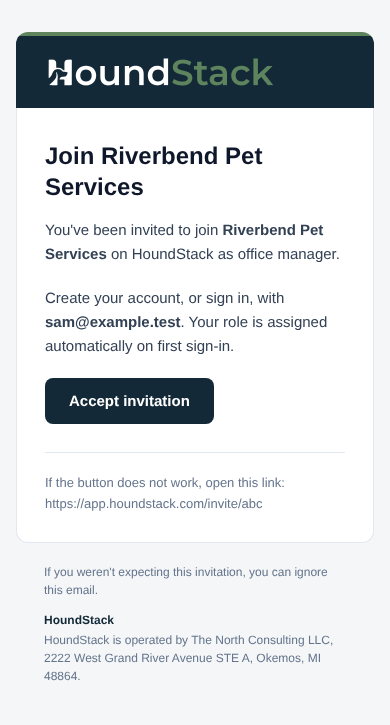
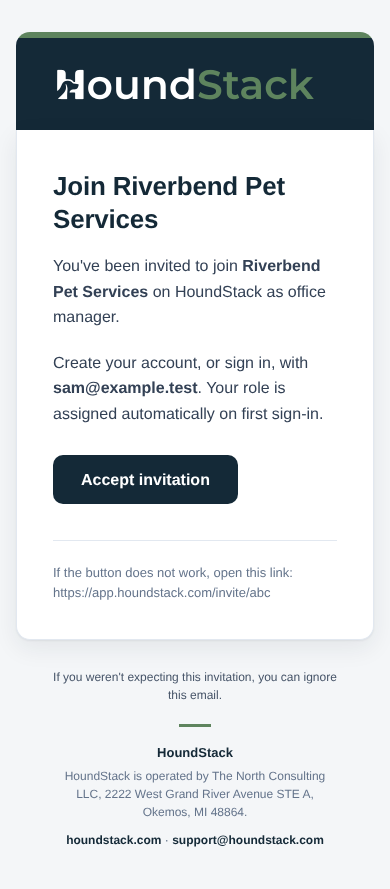
email: finish the HoundStack system and platform chrome (#577)
Raises system and platform mail from a plain band to a finished layout,
inside the Beacon kit (navy #142937, sage #5e845e, reversed wordmark,
operator line):

- band: 30px of navy around the wordmark, now 32px tall (2x PNG), under
  a 6px sage rule
- card: 36px inset, 40px top, soft shadow, 14px radius
- type: 26px navy heading, 16px body, 16px bold navy button
- footer: centred under the card with a short sage rule, the name, the
  operator line, and houndstack.com and support@houndstack.com

The trial notice and announcement cards take the same spacing, shadow and
navy button. Their copy is unchanged. Every after screenshot is
re-rendered at 600 and 390.

diff --git a/src/lib/email-templates/_brand.tsx b/src/lib/email-templates/_brand.tsx
@@ -23,6 +23,9 @@ import { appUrl } from "@/lib/app-origin";
 
 export const HOUNDSTACK_URL = "https://houndstack.com";
 
+/** The support address the trial notice already gives. */
+export const SUPPORT_EMAIL = "support@houndstack.com";
+
 /** The reversed wordmark (white "Hound", sage "Stack") from
  *  src/assets/houndstack-wordmark.svg, as a 2x PNG served from public/brand.
  *  A PNG because Gmail and Outlook do not render an SVG <img>. Never a CSS
@@ -71,18 +74,21 @@ export function safeLogoUrl(value: string | null | undefined): string | null {
 const small = { fontSize: "12px", color: BRAND.muted, lineHeight: "1.5", margin: 0 };
 const table = { width: "100%", borderCollapse: "collapse" as const };
 
-/** The wordmark's drawn size. Its artwork is 3626.5 x 434.8, so 28px tall
- *  is 234px wide; the PNG is drawn at twice that. */
-const WORDMARK_HEIGHT = 28;
-const WORDMARK_WIDTH = 234;
+/** The wordmark's drawn size. Its artwork is 3626.5 x 434.8, so 32px tall
+ *  is 267px wide; the PNG is drawn at twice that. */
+const WORDMARK_HEIGHT = 32;
+const WORDMARK_WIDTH = 267;
 
 /** The grey canvas, white card and inset that system mail sits in. Exported
  *  for the platform mail that builds its HTML by hand, so it can line up. */
 export const SYSTEM = {
   canvas: "#f4f6f8",
   cardRule: "#e2e8f0",
-  radius: "12px",
-  inset: "28px",
+  radius: "14px",
+  inset: "36px",
+  /** A soft lift for the card where a client draws shadows; the 1px rule
+   *  stands in where it does not. */
+  shadow: "0 1px 2px rgba(20,41,55,0.06), 0 8px 24px rgba(20,41,55,0.08)",
 };
 
 /**
@@ -106,12 +112,12 @@ export function SystemHeader() {
     >
       <tbody>
         <tr>
-          <td style={{ backgroundColor: BRAND.sage, height: "4px", fontSize: 0, lineHeight: 0 }}>
+          <td style={{ backgroundColor: BRAND.sage, height: "6px", fontSize: 0, lineHeight: 0 }}>
             &nbsp;
           </td>
         </tr>
         <tr>
-          <td style={{ backgroundColor: BRAND.navy, padding: `22px ${SYSTEM.inset}` }}>
+          <td style={{ backgroundColor: BRAND.navy, padding: `30px ${SYSTEM.inset}` }}>
             <a href={HOUNDSTACK_URL} style={{ textDecoration: "none" }}>
               <img
                 src={appUrl(WORDMARK_REVERSED_PATH)}
@@ -153,29 +159,25 @@ export function SystemFooter({
   poweredBy?: boolean;
   onCanvas?: boolean;
 }) {
-  const pad = onCanvas ? `0 ${SYSTEM.inset}` : "0";
+  if (onCanvas) return <CanvasFooter note={note} />;
   return (
     <table
       role="presentation"
       cellPadding={0}
       cellSpacing={0}
-      style={{
-        ...table,
-        margin: onCanvas ? "20px 0 0" : "32px 0 0",
-        ...(onCanvas ? {} : { borderTop: `1px solid ${BRAND.rule}` }),
-      }}
+      style={{ ...table, margin: "32px 0 0", borderTop: `1px solid ${BRAND.rule}` }}
     >
       <tbody>
         {note ? (
           <tr>
-            <td style={{ ...small, padding: onCanvas ? pad : "16px 0 0" }}>{note}</td>
+            <td style={{ ...small, padding: "16px 0 0" }}>{note}</td>
           </tr>
         ) : null}
         <tr>
           <td
             style={{
               ...small,
-              padding: onCanvas ? `12px ${SYSTEM.inset} 0` : "12px 0 0",
+              padding: "12px 0 0",
               fontWeight: "bold" as const,
               color: BRAND.navy,
             }}
@@ -193,8 +195,75 @@ export function SystemFooter({
           </td>
         </tr>
         <tr>
-          <td style={{ ...small, padding: onCanvas ? `2px ${SYSTEM.inset} 0` : "2px 0 0" }}>
-            {OPERATOR_LINE}
+          <td style={{ ...small, padding: "2px 0 0" }}>{OPERATOR_LINE}</td>
+        </tr>
+      </tbody>
+    </table>
+  );
+}
+
+const footerLink = { color: BRAND.navy, textDecoration: "none", fontWeight: "bold" as const };
+
+/** The footer under a system email's card: the email's own note, a short
+ *  sage rule, the HoundStack name, the operator line and where to reach
+ *  HoundStack, centred on the canvas. */
+function CanvasFooter({ note }: { note?: React.ReactNode }) {
+  const centred = { ...small, textAlign: "center" as const };
+  return (
+    <table
+      role="presentation"
+      cellPadding={0}
+      cellSpacing={0}
+      style={{ ...table, margin: "28px 0 0" }}
+    >
+      <tbody>
+        {note ? (
+          <tr>
+            <td style={{ ...centred, padding: `0 ${SYSTEM.inset} 20px`, color: "#475569" }}>
+              {note}
+            </td>
+          </tr>
+        ) : null}
+        <tr>
+          <td align="center" style={{ padding: "0 0 16px" }}>
+            <table role="presentation" cellPadding={0} cellSpacing={0} style={{ margin: "0 auto" }}>
+              <tbody>
+                <tr>
+                  <td
+                    style={{
+                      width: "32px",
+                      height: "3px",
+                      backgroundColor: BRAND.sage,
+                      fontSize: 0,
+                      lineHeight: 0,
+                    }}
+                  >
+                    &nbsp;
+                  </td>
+                </tr>
+              </tbody>
+            </table>
+          </td>
+        </tr>
+        <tr>
+          <td
+            style={{ ...centred, fontSize: "13px", fontWeight: "bold" as const, color: BRAND.navy }}
+          >
+            {APP_NAME}
+          </td>
+        </tr>
+        <tr>
+          <td style={{ ...centred, padding: `4px ${SYSTEM.inset} 0` }}>{OPERATOR_LINE}</td>
+        </tr>
+        <tr>
+          <td style={{ ...centred, padding: "10px 0 0" }}>
+            <a href={HOUNDSTACK_URL} style={footerLink}>
+              houndstack.com
+            </a>
+            {"  ·  "}
+            <a href={`mailto:${SUPPORT_EMAIL}`} style={footerLink}>
+              {SUPPORT_EMAIL}
+            </a>
           </td>
         </tr>
       </tbody>
@@ -205,21 +274,23 @@ export function SystemFooter({
 /** Shared type for system mail laid out with SystemLayout. */
 export const systemText = {
   h1: {
-    fontSize: "24px",
-    lineHeight: "1.3",
+    fontSize: "26px",
+    lineHeight: "1.25",
     fontWeight: "bold" as const,
-    color: "#0f172a",
-    margin: "0 0 16px",
+    letterSpacing: "-0.2px",
+    color: BRAND.navy,
+    margin: "0 0 18px",
   },
-  text: { fontSize: "15px", color: "#334155", lineHeight: "1.6", margin: "0 0 20px" },
+  text: { fontSize: "16px", color: "#334155", lineHeight: "1.6", margin: "0 0 20px" },
   link: { color: "inherit", textDecoration: "underline" },
   button: {
     backgroundColor: BRAND.navy,
     color: "#ffffff",
-    fontSize: "15px",
+    fontSize: "16px",
     fontWeight: "bold" as const,
-    borderRadius: "8px",
-    padding: "14px 24px",
+    borderRadius: "10px",
+    padding: "15px 28px",
+    margin: "8px 0 4px",
     textDecoration: "none",
     display: "inline-block",
   },
@@ -228,8 +299,8 @@ export const systemText = {
     fontSize: "13px",
     color: "#64748b",
     lineHeight: "1.55",
-    margin: "28px 0 0",
-    paddingTop: "20px",
+    margin: "32px 0 0",
+    paddingTop: "22px",
     borderTop: `1px solid ${BRAND.rule}`,
   },
 };
@@ -258,8 +329,9 @@ export function SystemLayout({
           <Section
             style={{
               backgroundColor: "#ffffff",
-              padding: `32px ${SYSTEM.inset} 28px`,
+              padding: `40px ${SYSTEM.inset} 36px`,
               border: `1px solid ${SYSTEM.cardRule}`,
+              boxShadow: SYSTEM.shadow,
               borderTop: "none",
               borderRadius: `0 0 ${SYSTEM.radius} ${SYSTEM.radius}`,
             }}

diff --git a/src/lib/trial-expiry-emails.server.ts b/src/lib/trial-expiry-emails.server.ts
@@ -83,19 +83,19 @@ export function renderTrialNoticeHtml(input: {
   const { orgName, daysLeft, endsOn, billingUrl } = input;
   const when = daysLeft <= 0 ? "today" : daysLeft === 1 ? "tomorrow" : `in ${daysLeft} days`;
   // HoundStack chrome above and below the card (#577): the band sits on
-  // the card's top edge, as in SystemLayout. The card and its
-  // copy are unchanged.
+  // the card's top edge, as in SystemLayout, and the card's spacing
+  // matches it. The copy is unchanged.
   return `<!doctype html><html><body style="font-family:system-ui,sans-serif;background:#f4f6f8;margin:0;padding:32px 16px 40px;color:#0f172a">
   <div style="max-width:600px;margin:0 auto">
   ${systemHeaderHtml()}
-  <div style="background:#fff;border:1px solid #e2e8f0;border-top:none;border-radius:0 0 12px 12px;overflow:hidden">
-    <div style="background:#d97706;color:#fff;padding:16px 20px;font-weight:600">Your HoundStack trial ends ${when}</div>
-    <div style="padding:20px;line-height:1.55;font-size:15px">
+  <div style="background:#fff;border:1px solid #e2e8f0;border-top:none;border-radius:0 0 14px 14px;overflow:hidden;box-shadow:0 1px 2px rgba(20,41,55,0.06),0 8px 24px rgba(20,41,55,0.08)">
+    <div style="background:#d97706;color:#fff;padding:18px 36px;font-weight:600;font-size:16px">Your HoundStack trial ends ${when}</div>
+    <div style="padding:28px 36px 32px;line-height:1.6;font-size:16px;color:#334155">
       <p style="margin:0 0 14px">Hi ${escapeHtml(orgName)},</p>
       <p style="margin:0 0 14px">Your free trial ends on <strong>${escapeHtml(endsOn)}</strong>. Pick a plan before then to keep going.</p>
       <p style="margin:0 0 14px"><strong>If you don't, the account is locked until you choose a plan, and your data is kept for 30 days.</strong> Choosing a plan unlocks it at once.</p>
-      <p style="margin:0 0 18px"><a href="${billingUrl}" style="display:inline-block;background:#2563eb;color:#fff;text-decoration:none;padding:11px 18px;border-radius:8px;font-weight:600">Choose a plan</a></p>
-      <p style="margin:0;font-size:13px;color:#475569">Plans start at $79 a month with your first teammate included. Nothing is charged automatically. Questions? Email <a href="mailto:support@houndstack.com" style="color:#2563eb">support@houndstack.com</a> before your trial ends and we'll help you choose the right plan.</p>
+      <p style="margin:0 0 18px"><a href="${billingUrl}" style="display:inline-block;background:#142937;color:#fff;text-decoration:none;padding:15px 28px;border-radius:10px;font-weight:700">Choose a plan</a></p>
+      <p style="margin:0;font-size:13px;color:#475569">Plans start at $79 a month with your first teammate included. Nothing is charged automatically. Questions? Email <a href="mailto:support@houndstack.com" style="color:#142937;font-weight:600">support@houndstack.com</a> before your trial ends and we'll help you choose the right plan.</p>
     </div>
   </div>
   ${systemFooterHtml("Sent by HoundStack · You are receiving this because your workspace is in a free trial.")}

diff --git a/src/lib/announcement-emails.server.ts b/src/lib/announcement-emails.server.ts
@@ -49,13 +49,14 @@ export function renderAnnouncementHtml(title: string, body: string, severity: st
           : "#2563eb";
   const safeBody = body.replace(/</g, "&lt;").replace(/\n/g, "<br/>");
   // HoundStack chrome above and below the card (#577): the band sits on
-  // the card's top edge, as in SystemLayout. The card is unchanged.
+  // the card's top edge, as in SystemLayout, and the card's spacing
+  // matches it. The copy is unchanged.
   return `<!doctype html><html><body style="font-family:system-ui,sans-serif;background:#f4f6f8;margin:0;padding:32px 16px 40px;color:#0f172a">
   <div style="max-width:600px;margin:0 auto">
   ${systemHeaderHtml()}
-  <div style="background:#fff;border:1px solid #e2e8f0;border-top:none;border-radius:0 0 12px 12px;overflow:hidden">
-    <div style="background:${color};color:#fff;padding:16px 20px;font-weight:600">${title}</div>
-    <div style="padding:20px;line-height:1.55;font-size:15px">${safeBody}</div>
+  <div style="background:#fff;border:1px solid #e2e8f0;border-top:none;border-radius:0 0 14px 14px;overflow:hidden;box-shadow:0 1px 2px rgba(20,41,55,0.06),0 8px 24px rgba(20,41,55,0.08)">
+    <div style="background:${color};color:#fff;padding:18px 36px;font-weight:600;font-size:16px">${title}</div>
+    <div style="padding:28px 36px 32px;line-height:1.6;font-size:16px;color:#334155">${safeBody}</div>
   </div>
   ${systemFooterHtml("Sent by HoundStack · Platform announcement")}
   </div></body></html>`;

diff --git a/tests/every-email-says-who-sent-it.test.tsx b/tests/every-email-says-who-sent-it.test.tsx
@@ -39,7 +39,7 @@ const brand = {
 
 // The header is the reversed wordmark as an image, never typeset text.
 const WORDMARK =
-  '/brand/houndstack-wordmark-reversed.png" alt="HoundStack" width="234" height="28"';
+  '/brand/houndstack-wordmark-reversed.png" alt="HoundStack" width="267" height="32"';
 
 const TENANT = Object.keys(TEMPLATES).filter((k) => k !== "weekly-digest");
 
@@ -250,6 +250,15 @@ describe("the HoundStack header", () => {
     expect(out).toContain("background-color:#5e845e");
     expect(out).toContain(WORDMARK);
     expect(out).not.toContain("filter:");
+  });
+
+  it("closes on a footer that says where to reach HoundStack", async () => {
+    const out = await html(MagicLinkEmail, {
+      siteName: "HoundStack",
+      confirmationUrl: "https://app.test/c",
+    });
+    expect(out).toContain('href="https://houndstack.com"');
+    expect(out).toContain('href="mailto:support@houndstack.com"');
   });
 
   it("the image it points at ships in public/, as a PNG and its SVG source", () => {
